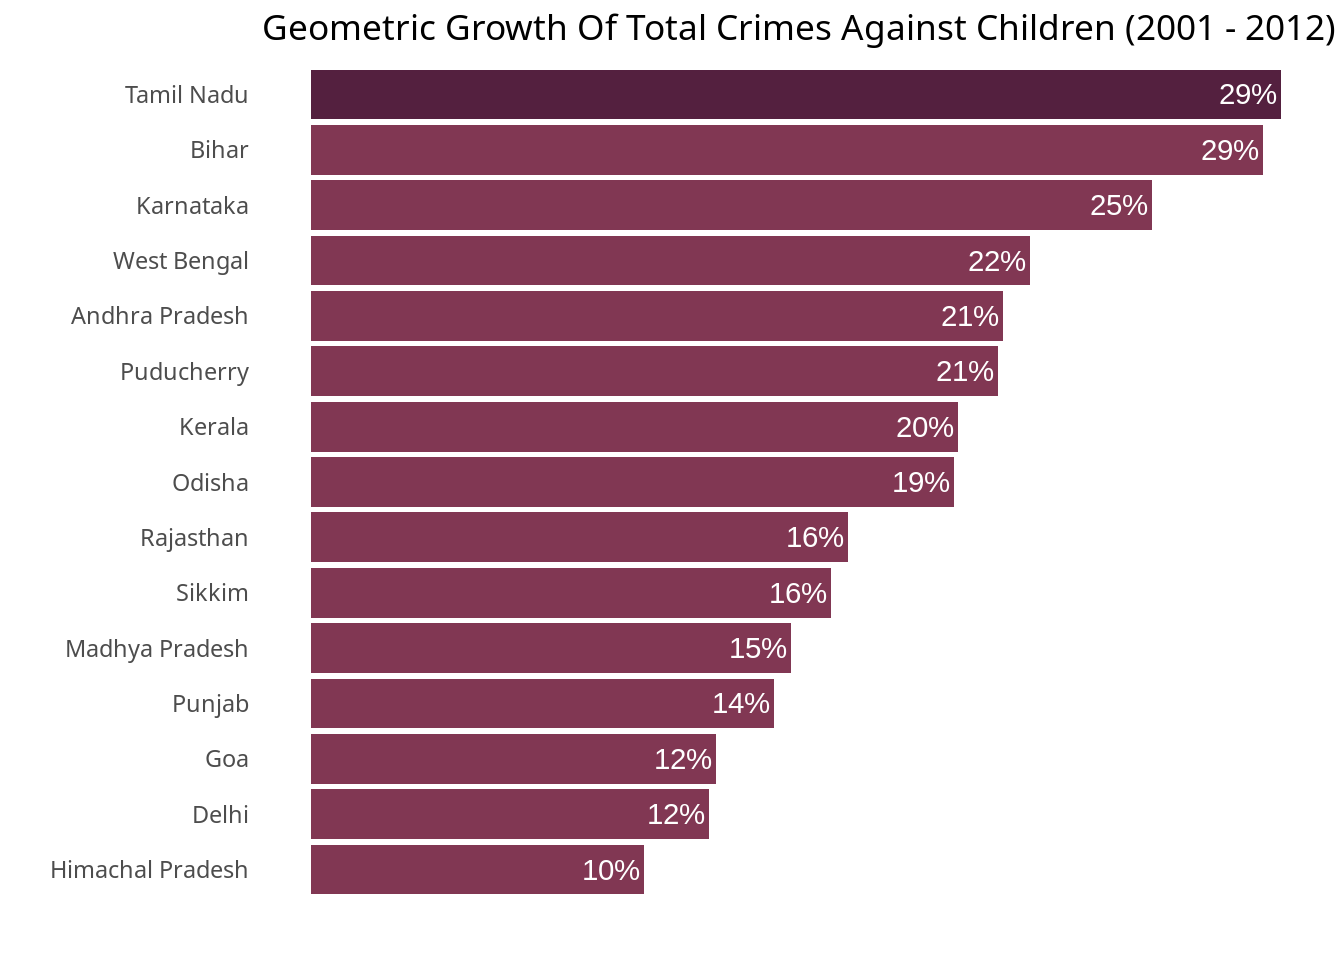
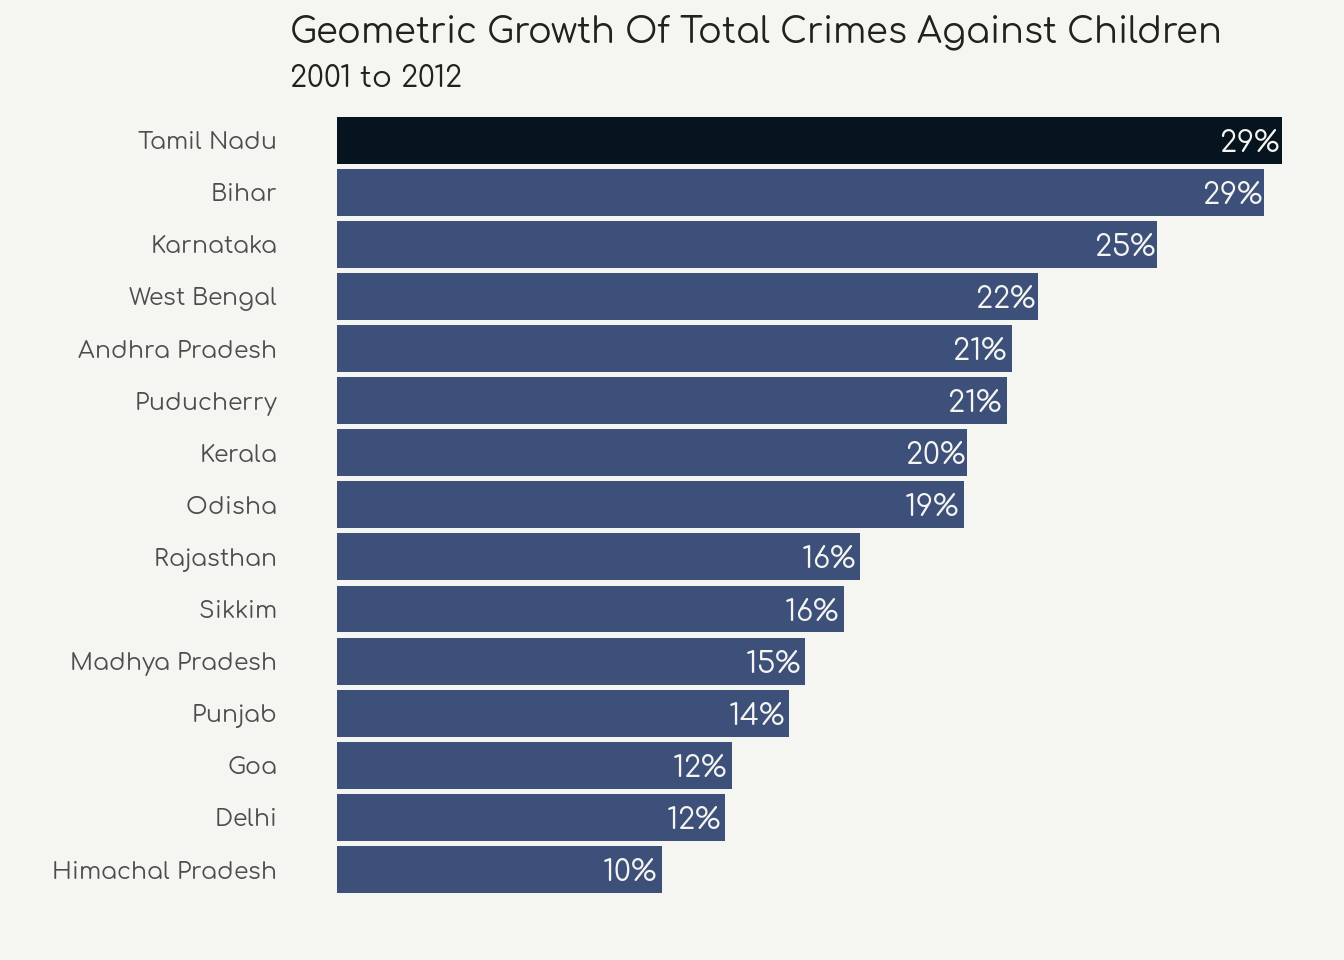
updated general theme / aesthetic more to do also, cleaned a little code

diff --git a/content/blog/2018-02-22-crime-against-children-in-india.html b/content/blog/2018-02-22-crime-against-children-in-india.html
@@ -37,7 +37,8 @@ library(RColorBrewer)
 library(gridExtra)
 library(ggthemes)
 library(rcartocolor)
-library(lubridate)</code></pre>
+library(lubridate)
+library(ghibli)</code></pre>
 </div>
 <div id="accessing-the-data" class="section level3">
 <h3>Accessing the data</h3>
@@ -54,6 +55,7 @@ tables_df$tableName</code></pre>
 <pre class="r"><code>if (length(tables_df$tableName) &gt; 0) {
   sample_qry &lt;- data.world::qry_sql(sprintf(&quot;SELECT * FROM `%s`&quot;, tables_df$tableName[[1]]))
   sample_df &lt;- data.world::query(sample_qry, dataset = dataset_key)
+  #knitr::kable(head(sample_df), format = &quot;html&quot;)
   sample_df
 }</code></pre>
 <pre><code>## # A tibble: 494 x 14
@@ -84,7 +86,7 @@ any(is.na(sample_df))</code></pre>
 <pre class="r"><code>sample_df %&gt;%
   arrange(state_ut) %&gt;%
   select(state_ut) %&gt;%
-  unique()</code></pre>
+  unique() </code></pre>
 <pre><code>## # A tibble: 38 x 1
 ##    state_ut         
 ##    &lt;chr&gt;            
@@ -162,12 +164,6 @@ df$state_ut &lt;- str_to_title(df$state_ut)</code></pre>
 ## 13 Tamil Nadu Prohibition Of Child Marriage Act     2012     0</code></pre>
 <p>After identifying the most significant crimes in 2012, I chart how these crimes changed over time.</p>
 <pre class="r"><code>
-strip_theme &lt;- theme(strip.background = element_rect(fill = &quot;white&quot;, color = &quot;white&quot;),
-                     strip.text = element_text(color = &quot;#54203F&quot;, size = rel(1.1)),
-                     panel.border = element_rect(color = &quot;#EDE5CF&quot;),
-                     plot.background = element_rect(color = &quot;#EDE5CF&quot;)
-                    )
-
 crimes &lt;- c(&quot;Kidnapping And Abduction Of Children&quot;,
             &quot;Murder Of Children&quot;,
             &quot;Other Crimes Against Children&quot;,
@@ -176,19 +172,24 @@ crimes &lt;- c(&quot;Kidnapping And Abduction Of Children&quot;,
 
 df %&gt;%
   filter((state_ut == &quot;Tamil Nadu&quot;) &amp; (crime_head %in% crimes )) %&gt;%
-  ggplot(aes(year,df)) + geom_line(color = &quot;#54203F&quot;) + 
-    facet_wrap(~ crime_head, ncol = 2) +
-    labs(y = &quot;Count&quot;, x = &quot;&quot;) +
-    scale_x_continuous(labels = function(x) as.integer(x)) +
-    theme_light() + strip_theme +
-    theme(axis.text.x = element_text(hjust=1))</code></pre>
+  mutate(crime_head = str_replace(crime_head, &quot;And&quot;, &quot;&amp;&quot;),
+         crime_head = str_remove(crime_head, &quot; Of Children&quot;)) %&gt;%
+  ggplot(aes(year, df)) + 
+  geom_line(color = ghibli_palettes$MononokeMedium[2], size = 1.5) +
+  geom_point(shape = 21, size = 2.5, col = my_bkgd, fill = ghibli_palettes$MononokeMedium[2]) +
+  facet_wrap(~ crime_head, ncol = 2) +
+  labs(y = NULL, x = NULL,
+       title = &quot;Number of Crimes in Tamil Nadu&quot;,
+       subtitle = &quot;Based on 5 Most Significant Types of Crime in 2012&quot;) +
+  scale_x_continuous(labels = function(x) as.integer(x)) +
+  theme(axis.text.x = element_text(hjust=1))</code></pre>
 <p><img src="/blog/2018-02-22-crime-against-children-in-india_files/figure-html/tamil_nadu_crimes_charts-1.png" width="672" /></p>
 <p>Kidnapping and rape appear to have the most alarming trajectories. I’m curious what average annual growth looks like.</p>
 <pre class="r"><code>df %&gt;%
   filter(state_ut == &quot;Tamil Nadu&quot;, crime_head %in% crimes) %&gt;% 
   group_by(crime_head) %&gt;%
   summarize(CAGR =  scales::percent((df[year == 2012] / df[year == 2001]) ^ (1/11) - 1)) %&gt;%
-  arrange(desc(CAGR))</code></pre>
+  arrange(desc(CAGR)) </code></pre>
 <pre><code>## # A tibble: 5 x 2
 ##   crime_head                           CAGR 
 ##   &lt;chr&gt;                                &lt;chr&gt;
@@ -217,35 +218,32 @@ kidnapping_plot &lt;- df %&gt;%
     labs(title = &#39;Kidnapping And Abduction Of Children by State, 2001 - 2012&#39;, y = &#39;Number of Crimes&#39;, x=&#39;&#39;) +
     scale_x_continuous(labels = function(x) as.integer(x)) +
     facet_wrap(~state_ut) + 
-    theme_light() + theme(strip.background = element_rect(color = &quot;#93a1a1&quot;)) +
-    theme(text = element_text(family = &quot;Noto Sans&quot;),
-          legend.position=&#39;none&#39;, 
-          axis.text.x = element_text(angle = 90, vjust = 0.5),
-          axis.ticks.x = element_blank()) +
-    strip_theme +
-    scale_fill_manual(values = colorRampPalette(brewer.pal(8, &quot;Dark2&quot;))(top_k)) 
+    scale_fill_manual(values = colorRampPalette(brewer.pal(8, &quot;Dark2&quot;))(top_k)) +
+  theme(legend.position=&#39;none&#39;)
 
 kidnapping_plot</code></pre>
 <p><img src="/blog/2018-02-22-crime-against-children-in-india_files/figure-html/kidnapping_by_state_all-1.png" width="864" /></p>
 <p>Uttar Pradesh seems to stand out quite a bit, especially in 2012. Taking a closer look, we see it has had more than 4x the number of kidnappings than any other state in 2012!</p>
-<pre class="r"><code>df %&gt;%
+<pre class="r"><code>lollipop_color &lt;- ghibli_palettes$MononokeMedium[4]
+
+df %&gt;%
   group_by(crime_head) %&gt;%
   filter(df &gt; 100) %&gt;%
   ungroup() %&gt;%
   filter(crime_head == &quot;Kidnapping And Abduction Of Children&quot;, year == &#39;2012&#39;, df[year==&#39;2012&#39;] &gt; 10) %&gt;%
   mutate(state_ut = reorder(state_ut, df)) %&gt;%
-  ggplot(aes(x=state_ut,y=df)) + geom_bar(stat=&#39;identity&#39;, fill=&quot;#813753&quot;) + coord_flip() +
-    geom_text(aes(y = df, x = state_ut, label = df), nudge_y = 350) +
-    labs(title = &#39;Number of Kidnappings And Abductions Of Children&#39;,
-         subtitle = &#39;By State, 2012&#39;, 
-         y = &#39;&#39;, x=&#39;&#39;) +
-    theme(text = element_text(family = &quot;Noto Sans&quot;),
-          legend.position=&#39;none&#39;,
-          panel.background = element_blank(),
-          axis.ticks = element_blank(),
-          axis.text.x = element_blank(),
-          panel.border = element_blank(),
-          panel.grid = element_blank()) </code></pre>
+  ggplot(aes(x = state_ut, y = df)) + 
+  geom_segment(aes(y = 0, yend = df, x = state_ut, xend = state_ut), col = lollipop_color, size = 2) +
+  geom_point(stat=&#39;identity&#39;, col = lollipop_color, size = 4) + 
+  coord_flip() +
+  geom_text(aes(y = df, x = state_ut, label = df), nudge_y = 200, hjust = 0, family = my_font, color = &quot;#22211d&quot;) +
+  expand_limits(y = c(0, 9000)) +
+  labs(title = &#39;Number of Kidnappings &amp; Abductions in 2012&#39;,
+       subtitle = &#39;By State&#39;, 
+       y = &#39;&#39;, x=&#39;&#39;) +
+  theme(legend.position=&#39;none&#39;,
+        axis.text.x = element_blank(),
+        panel.grid = element_blank())</code></pre>
 <p><img src="/blog/2018-02-22-crime-against-children-in-india_files/figure-html/kidnapping_by_state_12-1.png" width="672" /></p>
 </div>
 <div id="levelplot" class="section level4">
@@ -260,17 +258,15 @@ level_data %&gt;%
   mutate(State = reorder(State, desc(State))) %&gt;%
   ggplot(aes(x=Crime,y=State, z=Count)) +
     geom_tile(aes(fill = Count)) + 
-    theme(text = element_text(family = &quot;Noto Sans&quot;),
-          axis.text.x = element_text(angle=90, hjust=1),
-          panel.background = element_blank(),
-          axis.ticks = element_blank(),
-          panel.border = element_blank(),
+    theme(axis.text.x = element_text(angle=90, hjust=1),
           panel.grid = element_blank(), 
           plot.title = element_text(hjust = 0, face = &quot;bold&quot;),
           legend.key.height = unit(18, &quot;mm&quot;), 
           legend.key.width = unit(4, &quot;mm&quot;),
           legend.box.just = &quot;top&quot;) +
-    scale_fill_gradient(name = &quot;No. of\nCrimes&quot;,low=&quot;white&quot;, high=&quot;#54203F&quot;) +
+    scale_fill_gradient(name = &quot;No. of\nCrimes&quot;,
+                        low = my_bkgd,
+                        high = ghibli_palettes$MononokeDark[2]) + 
     labs(x = &quot;&quot;, y = &quot;&quot;,
          title = &quot;Number of Crimes by State - 2012&quot;,
          subtitle = &quot;&quot;)</code></pre>
@@ -294,18 +290,17 @@ growth.tbl &lt;- df %&gt;%
 growth.tbl %&gt;%
   slice(1:15) %&gt;%
   mutate(state_ut = reorder(state_ut, growth)) %&gt;%
-  ggplot(aes(x = state_ut, y = growth)) + geom_bar(stat=&#39;identity&#39;, aes(fill = gr_ch_cols)) +
-  scale_fill_manual(values = c(&quot;#813753&quot;,&quot;#54203F&quot;)) + coord_flip() +
-    geom_text(aes(y = growth, x = seq(15,1), label = paste0(round(growth),&quot;%&quot;)), nudge_y = -1, color=&quot;white&quot; ) +
-    labs(title = &#39;Geometric Growth Of Total Crimes Against Children (2001 - 2012)&#39;, 
+  ggplot(aes(x = state_ut, y = growth)) + 
+  geom_bar(stat=&#39;identity&#39;, aes(fill = gr_ch_cols)) +
+  scale_fill_manual(values = c(ghibli_palettes$MononokeMedium[3],ghibli_palettes$MononokeMedium[1])) +
+  coord_flip() +
+    geom_text(aes(y = growth, x = seq(15,1), label = paste0(round(growth),&quot;%&quot;)), 
+              nudge_y = -1, color = my_bkgd, family = my_font) +
+    labs(title = &#39;Geometric Growth Of Total Crimes Against Children&#39;, 
+         subtitle = &#39;2001 to 2012&#39;,
          y = &#39;&#39;, x=&#39;&#39;) +
-    theme(text = element_text(family = &quot;Noto Sans&quot;),
-          legend.position=&#39;none&#39;, 
-          panel.background = element_blank(),
-          axis.line = element_blank(),
-          axis.ticks = element_blank(),
+    theme(legend.position=&#39;none&#39;, 
           axis.text.x = element_blank(),
-          panel.border = element_blank(),
           panel.grid = element_blank()) </code></pre>
 <p><img src="/blog/2018-02-22-crime-against-children-in-india_files/figure-html/geometric-1.png" width="672" /></p>
 </div>
@@ -421,7 +416,6 @@ final.plt.01_12 %&gt;%
   facet_wrap(.~year(year)) +
   map_theme +
   theme(plot.title = element_text(hjust = 0.5),
-        strip.background = element_blank(),
         strip.text = element_text(face=&quot;bold&quot;, size = 12),
         legend.key.height = unit(12, &quot;mm&quot;), 
         legend.key.width = unit(4, &quot;mm&quot;),
@@ -433,9 +427,11 @@ final.plt.01_12 %&gt;%
 <p>A quick look at the median number of crimes over that period tells a similar story, but crime is concentrated a little differently.</p>
 <pre class="r"><code>myt &lt;- ttheme_default(
   base_size = 8,
+  base_family = my_font, 
+  base_colour =  &quot;#22211d&quot;,
   core = list(fg_params=list(hjust = 0, x=0.1),
               bg_params=list(fill=c(&quot;white&quot;, &quot;#EFEFEF&quot;))),
-  colhead = list(fg_params=list(col=&quot;black&quot;, fontface=&quot;bold.italic&quot;, hjust = 0, x=0.1),
+  colhead = list(fg_params=list(col= &quot;#22211d&quot;, fontface=&quot;bold.italic&quot;, hjust = 0, x=0.1),
                  bg_params=list(fill=&quot;#DEDEDE&quot;))
  )
 
@@ -444,16 +440,17 @@ median.table &lt;- med_by_state %&gt;% arrange(desc(median)) %&gt;% select(state
 colnames(median.table) &lt;- c(&quot;State&quot;, &quot;Median&quot;)
 
 # Create dataframe of state names and state centers (lat, long)
-cnames &lt;- aggregate(cbind(long, lat) ~ state, data=final.plt.med, FUN=function(x)mean(range(x)))
+cnames &lt;- aggregate(cbind(long, lat) ~ state, data=final.plt.med, FUN=function(x) mean(range(x)))
 
 # Process names by replacing last space with newline char
-cnames$state &lt;- stri_replace_last_charclass(cnames$state, &quot;\\p{WHITE_SPACE}&quot;, &quot;\n&quot;)
+# cnames$state &lt;- stri_replace_last_charclass(cnames$state, &quot;\\p{WHITE_SPACE}&quot;, &quot;\n&quot;)
+cnames$state &lt;- str_replace(cnames$state, &quot;\\s$&quot;,&quot;\\n&quot;)
 
 median_plot &lt;- ggplot() +
   geom_polygon(data = final.plt.med, 
                aes(x = long, y = lat, group = group, fill = median), 
                color = &quot;grey80&quot;, size = 0.25) + 
-  geom_text(data=cnames, aes(long, lat, label = state), size=2) +
+  geom_text(data=cnames, aes(long, lat, label = state), size=2, color = &quot;#22211d&quot;, family = my_font) +
   coord_map() +
   scale_fill_gradient(name=&quot;Median&quot;, limits=c(0,5200), low=&quot;#ede5cf&quot;, high=&quot;#54203F&quot;) +
   labs(title=&quot;Median Number of Crimes Against Children\n2001 - 2012&quot;, x = &quot;&quot;, y = &quot;&quot;) +

diff --git a/content/blog/2019-01-31-world-tempus-advent-calendar-2018.html b/content/blog/2019-01-31-world-tempus-advent-calendar-2018.html
@@ -37,20 +37,7 @@ type: post
 <pre class="r"><code>library(tidyverse)
 library(lubridate)
 library(rvest)
-library(networkD3)
-
-my_font &lt;- &quot;Comfortaa&quot;
-my_bkgd &lt;- &quot;#f5f5f2&quot;
-my_theme &lt;- theme(text = element_text(family = my_font, color = &quot;#22211d&quot;),
-                  rect = element_rect(fill = my_bkgd), 
-                  plot.background = element_rect(fill = my_bkgd, color = NA), 
-                  panel.background = element_rect(fill = my_bkgd, color = NA), 
-                  panel.border = element_blank(),
-                  legend.background = element_rect(fill = my_bkgd, color = NA),
-                  legend.key = element_rect(fill = my_bkgd),
-                  plot.caption = element_text(size = 6))
-
-theme_set(theme_light() + my_theme)</code></pre>
+library(networkD3)</code></pre>
 <p></br></p>
 <div id="scraping-the-web" class="section level2">
 <h2>Scraping the web</h2>

diff --git a/static/rmarkdown-libs/sankeyNetwork-binding/sankeyNetwork.js b/static/rmarkdown-libs/sankeyNetwork-binding/sankeyNetwork.js
@@ -165,8 +165,8 @@ HTMLWidgets.widget({
             });
         // note: u2192 is right-arrow
         link.append("title")
-//            .append("foreignObject")
-//            .append("xhtml:body")
+            .append("foreignObject")
+            .append("xhtml:body")
             .html(function(d) { return "<pre>" + d.source.name + " \u2192 " + d.target.name +
                 "\n" + format(d.value) + " " + options.units + "</pre>"; });
 
@@ -179,8 +179,8 @@ HTMLWidgets.widget({
             .style("opacity", 0.9)
             .style("cursor", "move")
             .append("title")
-//            .append("foreignObject")
-//            .append("xhtml:body")
+            .append("foreignObject")
+            .append("xhtml:body")
             .html(function(d) { return "<pre>" + d.name + "<br>" + format(d.value) + 
                 " " + options.units + "</pre>"; });
 
